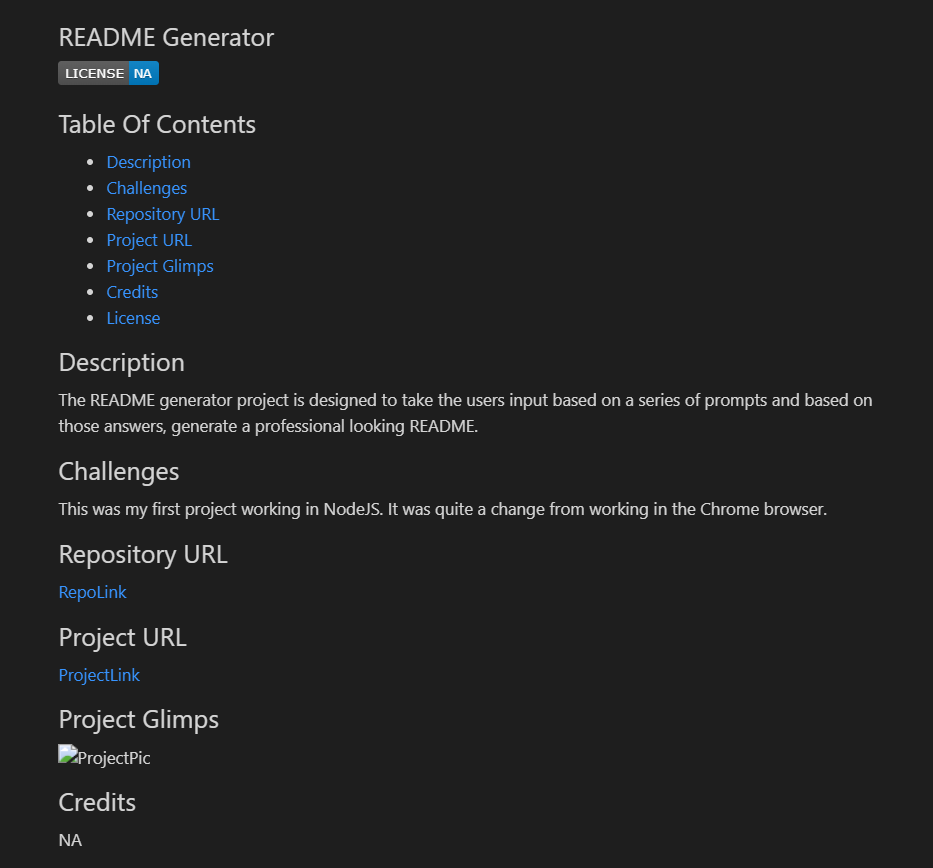
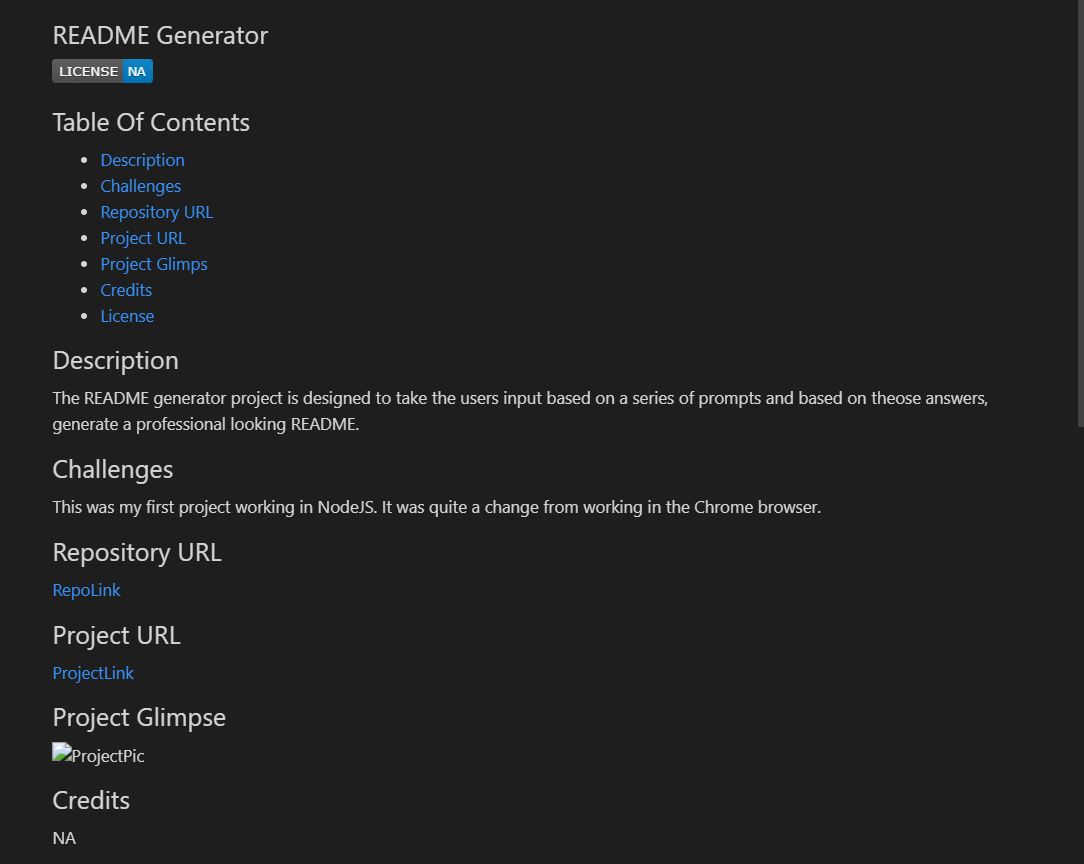
fix spelling

diff --git a/Develop/utils/generateMarkdown.js b/Develop/utils/generateMarkdown.js
@@ -43,7 +43,7 @@ function generateMD({
   ## Project URL
   
   [ProjectLink](${projectURL})
-  ## Project Glimps
+  ## Project Glimpse
 
   ![ProjectPic](${screenshot})
   ## Credits

diff --git a/Develop/README.md b/Develop/README.md
@@ -1,41 +1,29 @@
 ## README Generator
 
-![ProjectPic](https://img.shields.io/badge/LICENSE-NA-blue)
+  ![ProjectPic](https://img.shields.io/badge/LICENSE-NA-blue)
 
-## Table Of Contents
+  ## Table Of Contents
+  * [Description](#description)
+  * [Challenges](#challenges)
+  * [Repository URL](#repository-URL)
+  * [Project URL](#project-URL)
+  * [Project Glimps](#Project-Glimps)
+  * [Credits](#credits)
+  * [License](#license)
+  
+  ## Description
+  The README generator project is designed to take the users input based on a series of prompts and based on theose answers, generate a professional looking README.
+  ## Challenges
+  This was my first project working in NodeJS. It was quite a change from working in the Chrome browser.
+  ## Repository URL
+  [RepoLink](https://github.com/chadclark1234)
+  ## Project URL
+  
+  [ProjectLink](https://github.com/chadclark1234/README-Generator)
+  ## Project Glimpse
 
-- [Description](#description)
-- [Challenges](#challenges)
-- [Repository URL](#repository-URL)
-- [Project URL](#project-URL)
-- [Project Glimps](#Project-Glimps)
-- [Credits](#credits)
-- [License](#license)
-
-## Description
-
-The README generator project is designed to take the users input based on a series of prompts and based on those answers, generate a professional looking README.
-
-## Challenges
-
-This was my first project working in NodeJS. It was quite a change from working in the Chrome browser.
-
-## Repository URL
-
-[RepoLink](https://github.com/chadclark1234)
-
-## Project URL
-
-[ProjectLink](https://github.com/chadclark1234/README-Generator)
-
-## Project Glimps
-
-![ProjectPic](./images/screenshot.PNG)
-
-## Credits
-
-NA
-
-## License
-
-NA
+  ![ProjectPic](NA)
+  ## Credits
+  NA
+  ## License
+  NA 
